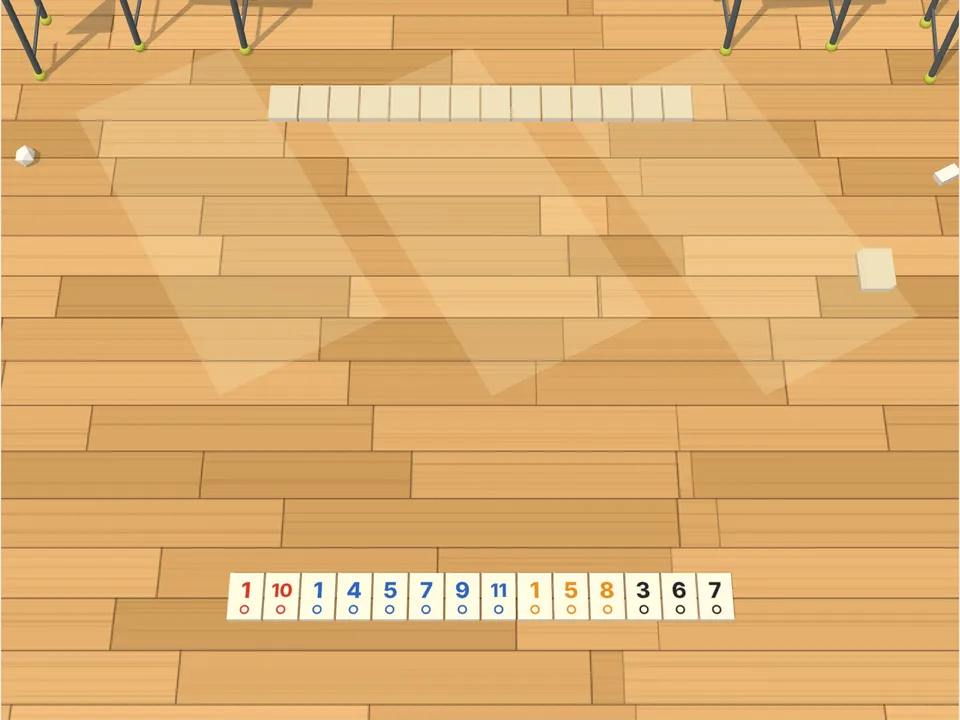
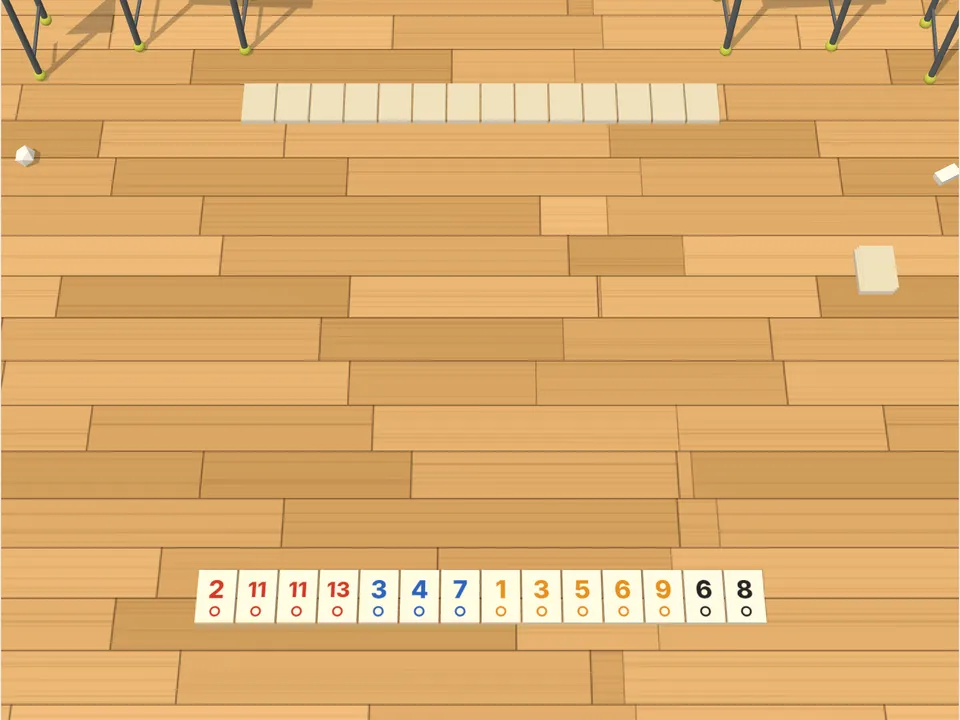
feat: flying go stones and more friction in alkkagi; larger tiles and no sunlight in tile rummy
Claude-Session: https://claude.ai/code/session_01Uedx1uYtd54DPXXtQh77nN

diff --git a/src/games/alkkagi/rules.ts b/src/games/alkkagi/rules.ts
@@ -1,7 +1,7 @@
 import type { Random } from "../../core/random";
 import type { Effect, Move, PointGame, Winner } from "../points/types";
 import type { Level } from "../points/ai";
-import { copy, settle, shotCode, shotOf, speedOf, strike, type Arena, type Disc } from "../flick/physics";
+import { copy, launch, settle, shotCode, shotOf, speedOf, strike, type Arena, type Disc } from "../flick/physics";
 
 /**
  * Alkkagi: stones are flicked with a finger to knock the other side's off
@@ -26,7 +26,8 @@ export interface State {
   toPlace: [number, number];
   turn: 0 | 1;
   winner: Winner;
-  last: { disc: number; code: number } | null;
+  /** The last shot; `fly` when the stone was struck so hard that it left the board and sailed through the air. */
+  last: { disc: number; code: number; fly: boolean } | null;
   /** The stones the last shot sent off. */
   lost: number[];
   ply: number;
@@ -35,8 +36,8 @@ export interface State {
 export const HINGES = [-2.5, 2.5];
 export const arenaOf = (mode: Mode): Arena =>
   mode === "go"
-    ? { halfX: 4.8, halfZ: 4.8, cushions: false, pockets: [], friction: 7, bounce: 0.9 }
-    : { halfX: 4.55, halfZ: 5.05, cushions: false, pockets: [], friction: 10.5, bounce: 0.9, posts: HINGES.flatMap((x) => [-0.26, 0, 0.26].map((dx) => ({ x: x + dx, z: 0, r: 0.13 }))) };
+    ? { halfX: 4.8, halfZ: 4.8, cushions: false, pockets: [], friction: 12, bounce: 0.9 }
+    : { halfX: 4.55, halfZ: 5.05, cushions: false, pockets: [], friction: 15, bounce: 0.9, posts: HINGES.flatMap((x) => [-0.26, 0, 0.26].map((dx) => ({ x: x + dx, z: 0, r: 0.13 }))) };
 /** Where a line crossing of the go board lies. */
 export const goPoint = (point: number) => ({ x: ((point % GO) - 9) * GO_STEP, z: (Math.floor(point / GO) - 9) * GO_STEP });
 const disc = (id: number, x: number, z: number, r: number, m: number): Disc => ({ id, x, z, vx: 0, vz: 0, r, m, on: true });
@@ -97,7 +98,8 @@ export function aimed(state: State): Move[] {
     state.discs.forEach((to) => {
       if (!to.on || state.owners[to.id] === state.turn) return;
       const degrees = (Math.atan2(to.z - from.z, to.x - from.x) * 180) / Math.PI;
-      for (const power of [7, 11, 15, 20]) out.push({ from: from.id, to: shotCode(degrees, power), extra: -1 });
+      // Go stones are never aimed hard enough to take off; the heavier janggi pieces need the strength.
+      for (const power of state.mode === "go" ? [8, 11, 13, 15] : [9, 13, 17, 20]) out.push({ from: from.id, to: shotCode(degrees, power), extra: -1 });
     });
   });
   return out;
@@ -107,7 +109,13 @@ export function moves(state: State): Move[] {
   if (state.phase === "place") return [...free(state, state.turn).map((to) => ({ from: -1, to, extra: -1 })), { from: -1, to: LAY_ROW, extra: -1 }];
   return aimed(state);
 }
-export function play(state: State, move: Move): State | null {
+/** From this strength on a go stone may take off; the chance grows with every step above it. */
+export const FLY_FROM = 16,
+  FLY_CHANCE = 0.14,
+  FLY_SECONDS = 0.42;
+export const flyChance = (power: number) => (power >= FLY_FROM ? (power - FLY_FROM + 1) * FLY_CHANCE : 0);
+/** `random` decides whether a stone struck too hard flies; left out, it never does (the computer thinks its shots through that way). */
+export function play(state: State, move: Move, random: Random = () => 1): State | null {
   if (state.winner !== null || move.extra !== -1) return null;
   const me = state.turn,
     other = (me ? 0 : 1) as 0 | 1;
@@ -130,15 +138,17 @@ export function play(state: State, move: Move): State | null {
   const shot = shotOf(move.to),
     mine = state.discs[move.from];
   if (!shot || !mine || !mine.on || state.owners[move.from] !== me) return null;
-  const discs = copy(state.discs);
+  const discs = copy(state.discs),
+    fly = state.mode === "go" && random() < flyChance(shot.power);
   strike(discs[move.from], shot.angle, speedOf(shot.power));
+  if (fly) launch(discs[move.from], FLY_SECONDS);
   const { gone } = settle(discs, arenaOf(state.mode)),
     left = [0, 1].map((side) => discs.filter((d) => d.on && state.owners[d.id] === side).length);
   return {
     ...state,
     discs,
     turn: other,
-    last: { disc: move.from, code: move.to },
+    last: { disc: move.from, code: move.to, fly },
     lost: gone,
     ply: state.ply + 1,
     winner: left[0] && left[1] ? null : left[0] ? 0 : left[1] ? 1 : "draw",
@@ -186,7 +196,7 @@ const alive = (state: State, side: number) => state.discs.filter((d) => d.on && 
 export const alkkagi: PointGame<State> = {
   create: (variant) => createGame(variant || "go-5"),
   moves,
-  play: (state, move) => play(state, move),
+  play,
   choose: chooseShot,
   turn: (s) => s.turn,
   winner: (s) => s.winner,
@@ -198,7 +208,7 @@ export const alkkagi: PointGame<State> = {
   hint: (s) =>
     s.phase === "place"
       ? `내 쪽 절반의 선 위에 알을 놓으세요 (남은 ${s.toPlace[s.turn]}개).`
-      : "내 알을 누른 채 뒤로 당겼다 놓아 튕기세요.",
+      : `${s.last?.fly ? "너무 세게 맞은 알이 붕 떴다 떨어졌습니다. " : ""}내 알을 누른 채 뒤로 당겼다 놓아 튕기세요.`,
   tally: (s) => (s.phase === "place" ? (s.toPlace.map((n) => `놓을 알 ${n}개`) as [string, string]) : ([0, 1].map((p) => `남은 알 ${alive(s, p)}개`) as [string, string])),
   reason: (s) => (s.winner === "draw" ? "두 사람의 알이 함께 모두 떨어졌습니다." : "상대 알을 모두 판 밖으로 내보냈습니다."),
 };

diff --git a/src/games/alkkagi/config.ts b/src/games/alkkagi/config.ts
@@ -39,10 +39,10 @@ export const alkkagiConfig: PointConfig<State> = {
   rulesTitle: "튕겨서 떨어뜨리세요",
   rules:
     part("기본 규칙", steps("차례마다 <b>내 알 하나</b>를 튕깁니다. <b>내가(흑·초) 먼저</b> 튕깁니다.", "튕긴 알이 다른 알을 맞히면 그 알이 밀려납니다.", "<b>판 밖으로 나간 알</b>은 잃습니다. 내가 튕긴 알이 나가도 잃습니다.", "상대 알을 모두 떨어뜨리면 이깁니다. 한 번에 두 사람의 알이 모두 없어지면 무승부입니다.")) +
-    part("튕기는 법", table(["당기기", "내 알을 누른 채 <b>보내고 싶은 쪽의 반대로</b> 당깁니다. 새총처럼 당긴 반대쪽으로 나갑니다."], ["세기", "멀리 당길수록 세게 나갑니다. 노란 막대가 방향과 세기를 보여 줍니다."], ["놓기", "손을 떼면 튕겨 나갑니다. 거의 당기지 않고 놓으면 취소됩니다."])) +
+    part("튕기는 법", table(["당기기", "내 알을 누른 채 <b>보내고 싶은 쪽의 반대로</b> 당깁니다. 새총처럼 당긴 반대쪽으로 나갑니다."], ["세기", "멀리 당길수록 세게 나갑니다. 노란 막대가 방향과 세기를 보여 줍니다."], ["놓기", "손을 떼면 튕겨 나갑니다. 거의 당기지 않고 놓으면 취소됩니다."], ["너무 세게 치면", "바둑알은 세기가 끝에 가까우면 <b>가끔 붕 떠서 날아갑니다</b>. 뜬 알은 다른 알을 맞히지 못하고 넘어가며, 내려앉은 곳이 판 밖이면 잃습니다. 셀수록 잘 뜹니다. 장기알은 뜨지 않습니다."])) +
     part("바둑알", table(["개수", "새 게임 설정에서 3·5·7·10개 중에 고릅니다."], ["자리 놓기", "시작할 때 각자 <b>자기 쪽 절반</b>의 선이 만나는 점에 알을 놓습니다. 가운데 빨간 줄과 그 너머에는 놓을 수 없습니다."], ["한 줄로 놓기", "남은 알을 가운데부터 두 칸 간격으로 한꺼번에 놓습니다."], ["순서", "내가 먼저 다 놓으면 상대가 놓고, 그다음 내가 먼저 튕깁니다."])) +
     part("장기알", table(["자리", "장기를 시작할 때의 자리 그대로 16개씩 놓입니다."], ["크기", "궁(楚·漢)이 가장 크고 무겁고, 차·포·마·상이 그다음, 사와 졸·병이 가장 작고 가볍습니다."], ["무게", "무거운 알은 잘 밀리지 않고, 가벼운 알을 멀리 밀어냅니다."], ["경첩", "접는 장기판 가운데의 놋쇠 경첩 두 개는 <b>장애물</b>입니다. 알이 부딪히면 튕겨 나오고, 경첩 뒤의 알은 곧장 맞힐 수 없습니다."])) +
-    part("처음이라면", notes("너무 세게 튕기면 내 알도 함께 판 밖으로 나갑니다.", "상대 알의 <b>가운데</b>를 맞히면 내 알은 멈추고 상대 알이 나갑니다. 빗맞으면 둘 다 비스듬히 갑니다.", "가장자리에 선 상대 알이 가장 쉬운 표적입니다. 내 알은 가운데에 둡니다.", "한 번에 두 알을 맞히는 줄을 찾아봅니다.")),
+    part("처음이라면", notes("너무 세게 튕기면 내 알도 함께 판 밖으로 나가거나, 떠서 상대 알을 넘어가 버립니다.", "상대 알의 <b>가운데</b>를 맞히면 내 알은 멈추고 상대 알이 나갑니다. 빗맞으면 둘 다 비스듬히 갑니다.", "가장자리에 선 상대 알이 가장 쉬운 표적입니다. 내 알은 가운데에 둡니다.", "한 번에 두 알을 맞히는 줄을 찾아봅니다.")),
   help: "마우스·터치: 내 알을 누른 채 뒤로 당겼다 놓습니다<br>알 놓기: 내 쪽 절반의 점을 누릅니다",
   sides: ["흑", "백"],
   startWord: "판 앞에 앉기",

diff --git a/src/games/tilerummy/view.ts b/src/games/tilerummy/view.ts
@@ -3,9 +3,9 @@ import type { Marks } from "../points/view";
 import { TableView, type Spot, type TableSubject } from "../table/view";
 import { SET_BASE, TILE_COUNT, TO_RACK, colourOf, isJoker, numberOf, valid, type State } from "./rules";
 
-const W = 0.6,
-  D = 0.84,
-  PITCH = 0.64,
+const W = 0.68,
+  D = 0.95,
+  PITCH = 0.72,
   ROW_WIDTH = 15.6,
   SUBJECT: TableSubject = { half: 8.4, halfZ: 6.6, height: 0.5, lookY: 0, tilt: 1.12 };
 export const RACK_COLORS: [string, string] = ["#f4ead2", "#9aa3ad"];
@@ -88,17 +88,11 @@ export class TileRummyView extends TableView<State> {
   constructor(host: HTMLElement, quality: "high" | "low") {
     super(host, quality, "#b98d5a");
     this.daylight("#ffffff", "#8a6d4a", "#fff3da", 12, 2.0);
-    // A classroom floor: varnished strips of wood laid end to end, sunlight from the windows lying across it,
+    // A classroom floor: varnished strips of wood laid end to end,
     // and round its edges the legs of desks and chairs, a satchel, indoor shoes and things dropped.
     const floor = this.add(new T.PlaneGeometry(60, 60), this.standard({ map: this.own(floorboards()), roughness: 0.42 }), 0, 0, 0);
     floor.rotation.x = -Math.PI / 2;
     floor.castShadow = false;
-    const sun = this.own(new T.MeshBasicMaterial({ color: "#fff3c4", transparent: true, opacity: 0.2, depthWrite: false }));
-    for (const x of [-8.6, -3.4, 1.8]) {
-      const patch = this.add(new T.PlaneGeometry(3.6, 7.5), sun, x + 3.4, 0.004, -3.4);
-      patch.rotation.set(-Math.PI / 2, 0, 0.5);
-      patch.castShadow = false;
-    }
     const steel = this.standard({ color: "#8a939c", roughness: 0.4, metalness: 0.55 }),
       cap = this.standard({ color: "#c9d24a", roughness: 0.9 }),
       top = this.standard({ color: "#d8b47a", roughness: 0.5 }),
@@ -205,7 +199,7 @@ export class TileRummyView extends TableView<State> {
     });
     const rack = (tiles: number[], z0: number, up: boolean) => {
       const sorted = [...tiles].sort((a, b) => (isJoker(a) ? 99 : colourOf(a)) - (isJoker(b) ? 99 : colourOf(b)) || numberOf(a) - numberOf(b)),
-        perRow = 22;
+        perRow = 21;
       sorted.forEach((tile, k) => {
         const row = Math.floor(k / perRow),
           inRow = Math.min(perRow, sorted.length - row * perRow);
@@ -214,14 +208,14 @@ export class TileRummyView extends TableView<State> {
     };
     rack(state.racks[0], 4.7, true);
     rack(state.racks[1], -6.0, state.winner !== null);
-    slots.set(TO_RACK, { x: Math.min(7.6, (Math.min(22, state.racks[0].length) / 2 + 0.8) * PITCH), z: 4.7 });
+    slots.set(TO_RACK, { x: Math.min(7.6, (Math.min(21, state.racks[0].length) / 2 + 0.8) * PITCH), z: 4.7 });
     state.pool.forEach((tile, k) => poses.set(tile, { x: 7.9 - (k % 3) * 0.05, z: -2 + (k % 3) * 0.04, up: false }));
     return { poses, slots, bounds };
   }
   protected spots(): Spot[] {
     const state = this.state;
     if (!state) return [];
-    const out: Spot[] = [...state.racks[0], ...state.table.flat()].map((tile) => ({ x: this.poses.get(tile)!.x, y: 0.1, z: this.poses.get(tile)!.z, r: 0.34, point: tile }));
+    const out: Spot[] = [...state.racks[0], ...state.table.flat()].map((tile) => ({ x: this.poses.get(tile)!.x, y: 0.1, z: this.poses.get(tile)!.z, r: 0.38, point: tile }));
     for (const [point, at] of this.slots) if (this.marks.targets.includes(point)) out.push({ ...at, y: 0.05, r: 0.36, point });
     return out;
   }

diff --git a/src/games/flick/physics.ts b/src/games/flick/physics.ts
@@ -14,6 +14,9 @@ export interface Disc {
   m: number;
   /** Still on the table. */
   on: boolean;
+  /** Slices it still has to spend in the air, and how many the flight lasts: an airborne disc touches nothing. */
+  air?: number;
+  flight?: number;
 }
 export interface Arena {
   halfX: number;
@@ -28,6 +31,8 @@ export interface Arena {
   /** How much speed a collision keeps (1 keeps all). */
   bounce: number;
 }
+/** How much of its speed a disc keeps when it comes down from a flight. */
+export const LANDING = 0.3;
 export const DT = 1 / 120,
   /** Below this speed a disc is at rest. */
   REST = 0.04,
@@ -37,6 +42,17 @@ export function step(discs: Disc[], arena: Arena, heard?: { hits: number }): num
   const gone: number[] = [];
   for (const d of discs) {
     if (!d.on) continue;
+    if (d.air) {
+      // In the air nothing slows it; it comes down with most of its speed spent.
+      d.x += d.vx * DT;
+      d.z += d.vz * DT;
+      if (--d.air === 0) {
+        d.vx *= LANDING;
+        d.vz *= LANDING;
+        if (heard) heard.hits++;
+      }
+      continue;
+    }
     const speed = Math.hypot(d.vx, d.vz);
     if (speed <= REST) {
       d.vx = d.vz = 0;
@@ -51,10 +67,10 @@ export function step(discs: Disc[], arena: Arena, heard?: { hits: number }): num
   // Discs that overlap are pushed apart and exchange speed along the line between them.
   for (let i = 0; i < discs.length; i++) {
     const a = discs[i];
-    if (!a.on) continue;
+    if (!a.on || a.air) continue;
     for (let j = i + 1; j < discs.length; j++) {
       const b = discs[j];
-      if (!b.on) continue;
+      if (!b.on || b.air) continue;
       const dx = b.x - a.x,
         dz = b.z - a.z,
         reach = a.r + b.r,
@@ -80,7 +96,7 @@ export function step(discs: Disc[], arena: Arena, heard?: { hits: number }): num
     }
   }
   for (const d of discs) {
-    if (!d.on) continue;
+    if (!d.on || d.air) continue;
     for (const post of arena.posts ?? []) {
       const dx = d.x - post.x,
         dz = d.z - post.z,
@@ -136,7 +152,11 @@ export function settle(discs: Disc[], arena: Arena) {
     gone.push(...step(discs, arena));
     steps++;
   }
-  for (const d of discs) d.vx = d.vz = 0;
+  for (const d of discs) {
+    d.vx = d.vz = 0;
+    delete d.air;
+    delete d.flight;
+  }
   return { gone, steps };
 }
 export const copy = (discs: Disc[]) => discs.map((d) => ({ ...d }));
@@ -159,3 +179,9 @@ export function strike(disc: Disc, angle: number, speed: number) {
 }
 /** How fast a disc leaves the finger for a strength of 1–20. */
 export const speedOf = (power: number) => 1.5 + power * 0.8;
+/** Sends a disc into the air for a while: it flies on in a straight line over everything in its way. */
+export function launch(disc: Disc, seconds: number) {
+  disc.air = disc.flight = Math.round(seconds / DT);
+}
+/** How high an airborne disc is above the table, as a share of the top of its arc (0 on the table). */
+export const lift = (disc: Disc) => (disc.air && disc.flight ? Math.sin(Math.PI * (1 - disc.air / disc.flight)) : 0);

diff --git a/tests/six-games.test.ts b/tests/six-games.test.ts
@@ -269,6 +269,32 @@ describe("Alkkagi", () => {
     expect(hit.discs[soldier].x).toBeGreaterThan(-2.3);
     expect(hit.discs[soldier].on).toBe(true);
   });
+  it("a go stone struck too hard may fly: it sails over what lies in its way", () => {
+    const disc = (id: number, x: number, z: number): P.Disc => ({ id, x, z, vx: 0, vz: 0, r: 0.235, m: 1, on: true });
+    const s: A.State = { ...A.createGame("go-3"), phase: "play", toPlace: [0, 0], discs: [disc(0, 0, 4), disc(1, 0, 2), disc(2, 3, -3)], owners: [0, 1, 1], labels: ["", "", ""] },
+      shot = { from: 0, to: P.shotCode(270, 20), extra: -1 };
+    expect([A.flyChance(15), A.flyChance(16) > 0, A.flyChance(20) > A.flyChance(17)]).toEqual([0, true, true]);
+    // On the board it hits the stone in front of it.
+    const slid = A.play(s, shot, () => 0.99)!;
+    expect([slid.last!.fly, slid.discs[1].z < 2]).toEqual([false, true]);
+    // In the air it passes over that stone, which never moves, and comes down far beyond it.
+    const flew = A.play(s, shot, () => 0)!;
+    expect([flew.last!.fly, flew.discs[1].z, flew.discs[1].on, flew.discs[0].z < -2]).toEqual([true, 2, true, true]);
+    expect(flew.discs.every((d) => d.air === undefined && d.flight === undefined)).toBe(true);
+    // A gentler shot never flies, whatever the chance; nor does a janggi piece.
+    expect(A.play(s, { from: 0, to: P.shotCode(270, 12), extra: -1 }, () => 0)!.last!.fly).toBe(false);
+    const j = A.createGame("janggi");
+    expect(A.play(j, { from: 8, to: P.shotCode(270, 20), extra: -1 }, () => 0)!.last!.fly).toBe(false);
+    // Left to itself the computer thinks without chance, and aims its go stones below the strength that flies.
+    expect(A.aimed(s).every((m) => P.shotOf(m.to)!.power < A.FLY_FROM)).toBe(true);
+    // In the air a disc touches nothing and lands with most of its speed gone.
+    const pair = [disc(0, -2, 0), disc(1, 0, 0)];
+    P.strike(pair[0], 0, 10);
+    P.launch(pair[0], 0.3);
+    expect(P.lift(pair[0])).toBe(0);
+    for (let i = 0; i < 18; i++) P.step(pair, { halfX: 9, halfZ: 9, cushions: false, pockets: [], friction: 12, bounce: 0.9 });
+    expect([P.lift(pair[0]) > 0.9, pair[1].x]).toEqual([true, 0]);
+  });
   it("the computer shoots only its own stones and plays a game out", () => {
     const random = seededRandom(5);
     let s = A.createGame("go-5");

diff --git a/src/games/alkkagi/view.ts b/src/games/alkkagi/view.ts
@@ -3,8 +3,8 @@ import { wood } from "../../engine/scene-utils";
 import type { Marks } from "../points/view";
 import { ringMesh, type Spot, type TableSubject } from "../table/view";
 import { FlickView } from "../flick/view";
-import { copy, shotCode, shotOf, speedOf, strike, type Disc } from "../flick/physics";
-import { GO, GO_STEP, HINGES, arenaOf, goPoint, type Mode, type State } from "./rules";
+import { copy, launch, shotCode, shotOf, speedOf, strike, type Disc } from "../flick/physics";
+import { FLY_SECONDS, GO, GO_STEP, HINGES, arenaOf, goPoint, type Mode, type State } from "./rules";
 
 export const STONE_COLORS: [string, string] = ["#1b1c20", "#f1ece0"];
 export const PIECE_COLORS: [string, string] = ["#2f7d4f", "#c0392b"];
@@ -173,6 +173,7 @@ export class AlkkagiView extends FlickView<State> {
     const shot = shotOf(state.last.code)!,
       live = copy(before.discs);
     strike(live[state.last.disc], shot.angle, speedOf(shot.power));
+    if (state.last.fly) launch(live[state.last.disc], FLY_SECONDS);
     return live;
   }
   protected shooter(point: number) {

diff --git a/src/games/flick/view.ts b/src/games/flick/view.ts
@@ -1,7 +1,7 @@
 import * as T from "three";
 import type { Marks } from "../points/view";
 import { TableView } from "../table/view";
-import { DT, POWERS, moving, step, type Arena, type Disc } from "./physics";
+import { DT, POWERS, lift, moving, step, type Arena, type Disc } from "./physics";
 
 /**
  * A table of discs that are flicked: the view lays them out, replays a shot
@@ -68,7 +68,8 @@ export abstract class FlickView<S> extends TableView<S> {
             fell = falling.get(disc.id);
           if (fell === undefined) {
             mesh.visible = disc.on;
-            mesh.position.set(disc.x, this.top, disc.z);
+            // A disc struck too hard sails over the others in an arc.
+            mesh.position.set(disc.x, this.top + lift(disc) * 1.5, disc.z);
           } else {
             // Off the table: it drops out of sight.
             falling.set(disc.id, fell + 1);

diff --git a/README.md b/README.md
@@ -275,9 +275,9 @@ CHROMIUM_PATH=/usr/bin/chromium npm run test:e2e
 
 - **이름**: 길막기와 타일 러미는 특정 회사의 상품 이름(쿼리도, 루미큐브)을 제목으로 쓰지 않고 소개 글에서만 밝힙니다. 히트 앤 블로는 분부대로 제목에 쓰고 숫자 야구는 소개 글에 남겼습니다.
 - **튕기기**: 알까기와 카롬은 `src/games/flick/physics.ts`의 원반 물리(마찰, 원반끼리의 충돌, 벽·구멍·기둥, 가장자리 밖으로 떨어짐)를 씁니다. 고정된 시간 간격으로 계산해 같은 샷은 언제나 같은 결과가 되며, 규칙과 화면이 같은 코드를 돌립니다. 알을 누른 채 뒤로 당겼다 놓으면 반대쪽으로 나갑니다.
-- **컴퓨터**: 알까기와 카롬은 겨냥한 샷들을 머릿속으로 쳐 보고 가장 좋은 것을 고르며, 난이도가 낮을수록 손이 흔들립니다. 숫자 야구는 자기가 받은 판정과 맞는 숫자만 남겨 추리합니다. 도미노와 타일 러미는 자기 패와 판만 봅니다. 타일 러미의 컴퓨터는 보통·어려움에서 판의 묶음을 모두 풀어 자기 타일을 끼워 넣을 수 있는 새 짜임을 찾습니다(`rebuild`, 조커가 든 묶음은 그대로 둠). 장기알 알까기는 바둑알보다 마찰을 조금 크게 했습니다.
+- **컴퓨터**: 알까기와 카롬은 겨냥한 샷들을 머릿속으로 쳐 보고 가장 좋은 것을 고르며, 난이도가 낮을수록 손이 흔들립니다. 숫자 야구는 자기가 받은 판정과 맞는 숫자만 남겨 추리합니다. 도미노와 타일 러미는 자기 패와 판만 봅니다. 타일 러미의 컴퓨터는 보통·어려움에서 판의 묶음을 모두 풀어 자기 타일을 끼워 넣을 수 있는 새 짜임을 찾습니다(`rebuild`, 조커가 든 묶음은 그대로 둠). 알까기의 마찰은 바둑알 12, 장기알 15로 크게 잡았습니다. 바둑알은 세기 16 이상으로 치면 일정 확률(16에서 14%, 한 단계마다 14%씩 늘어 20에서 70%)로 **붕 떠서** 다른 알을 넘어가 떨어집니다(`launch`, 뜬 동안은 아무것도 맞히지 않음). 컴퓨터는 뜨지 않는 세기로만 겨냥합니다.
 - **컴퓨터 대전 전용**: 숫자 야구·도미노·타일 러미는 숨긴 것이 있어 한 화면에서 둘이 할 수 없습니다. 이 셋과 알까기·카롬에는 무르기가 없습니다.
-- **타일 러미에서 타일 내기**: 내 타일을 여러 개 눌러 고르면(떠오름) 묶음이 될 때 **새 묶음으로 내기** 버튼이 뜹니다. 내 타일 하나를 누르면 붙일 수 있는 판의 묶음 끝에 금색 칸이 뜹니다. 바닥의 타일과 내 타일을 함께 골라 묶음이 되면 **재구성** 버튼이 뜹니다. 배경은 니스 칠한 교실 마룻바닥(길이가 제각각인 널, 창으로 든 햇빛)에 책걸상 다리, 책가방, 실내화가 놓여 있습니다.
+- **타일 러미에서 타일 내기**: 내 타일을 여러 개 눌러 고르면(떠오름) 묶음이 될 때 **새 묶음으로 내기** 버튼이 뜹니다. 내 타일 하나를 누르면 붙일 수 있는 판의 묶음 끝에 금색 칸이 뜹니다. 바닥의 타일과 내 타일을 함께 골라 묶음이 되면 **재구성** 버튼이 뜹니다. 배경은 니스 칠한 교실 마룻바닥(길이가 제각각인 널)에 책걸상 다리, 책가방, 실내화가 놓여 있습니다.
 - **판 안의 버튼**: 배 돌리기, 가져오기, 차례 마치기 같은 도구 버튼은 모두 게임 화면 안 오른쪽 아래에 뜹니다.
 - **게임 방법**: 모든 게임의 설명에서 '조작'과 '그 밖에' 항목을 뺐습니다(`shownGuide`).
 

diff --git a/AGENTS.md b/AGENTS.md
@@ -51,3 +51,4 @@
 - Hit and blow (`hitblow/`, titled 히트 앤 블로 at the user's request; `repeat` allows a digit more than once), wall race, dominoes, alkkagi, carrom and tile rummy are `PointGame`s on `TableView` too. Tools (`config.tools`) are drawn inside `.board-area` (`.pg-tools`), never in the side panel: the user asked. Alkkagi and carrom share `src/games/flick/` (fixed-step disc physics run by rules and view alike, so a shot is deterministic; `FlickView` turns a pull on a disc into a move through `onMove`); the janggi board's two hinges are fixed posts in its arena. Games with something hidden or a shot that cannot be taken back set `computerOnly` and/or `noUndo`. Wall race and tile rummy keep generic titles and name the product they resemble only in their intro.
 - Tile rummy's computer may take the table apart (`rebuild`, cached per state; legal for side 1 only, and not at the easy level): `partition` must use every tile it is given, and sets holding a joker are left as they stand.
 - In tile rummy a tap picks a tile up or puts it back (`State.picked`); what is picked is then laid as a new set (`NEW_SET`, rack tiles only), regrouped (`REGROUP`, with tiles of the table) or set onto a set it fits (`SET_BASE + i`, shown as gold places). The buttons come up only when the picked tiles make a good set: the user asked for this way of playing, so do not go back to moving one tile at a time.
+- Alkkagi: a go stone struck at strength 16 or more may fly (`flyChance`, decided by the `random` passed to `play`, recorded in `last.fly` so the view replays it); an airborne disc touches nothing (`Disc.air`). Without `random` nothing flies, which is how the computer thinks its shots through. The user asked for high friction (go 12, janggi 15) and for no sunlight on the tile rummy floor.
